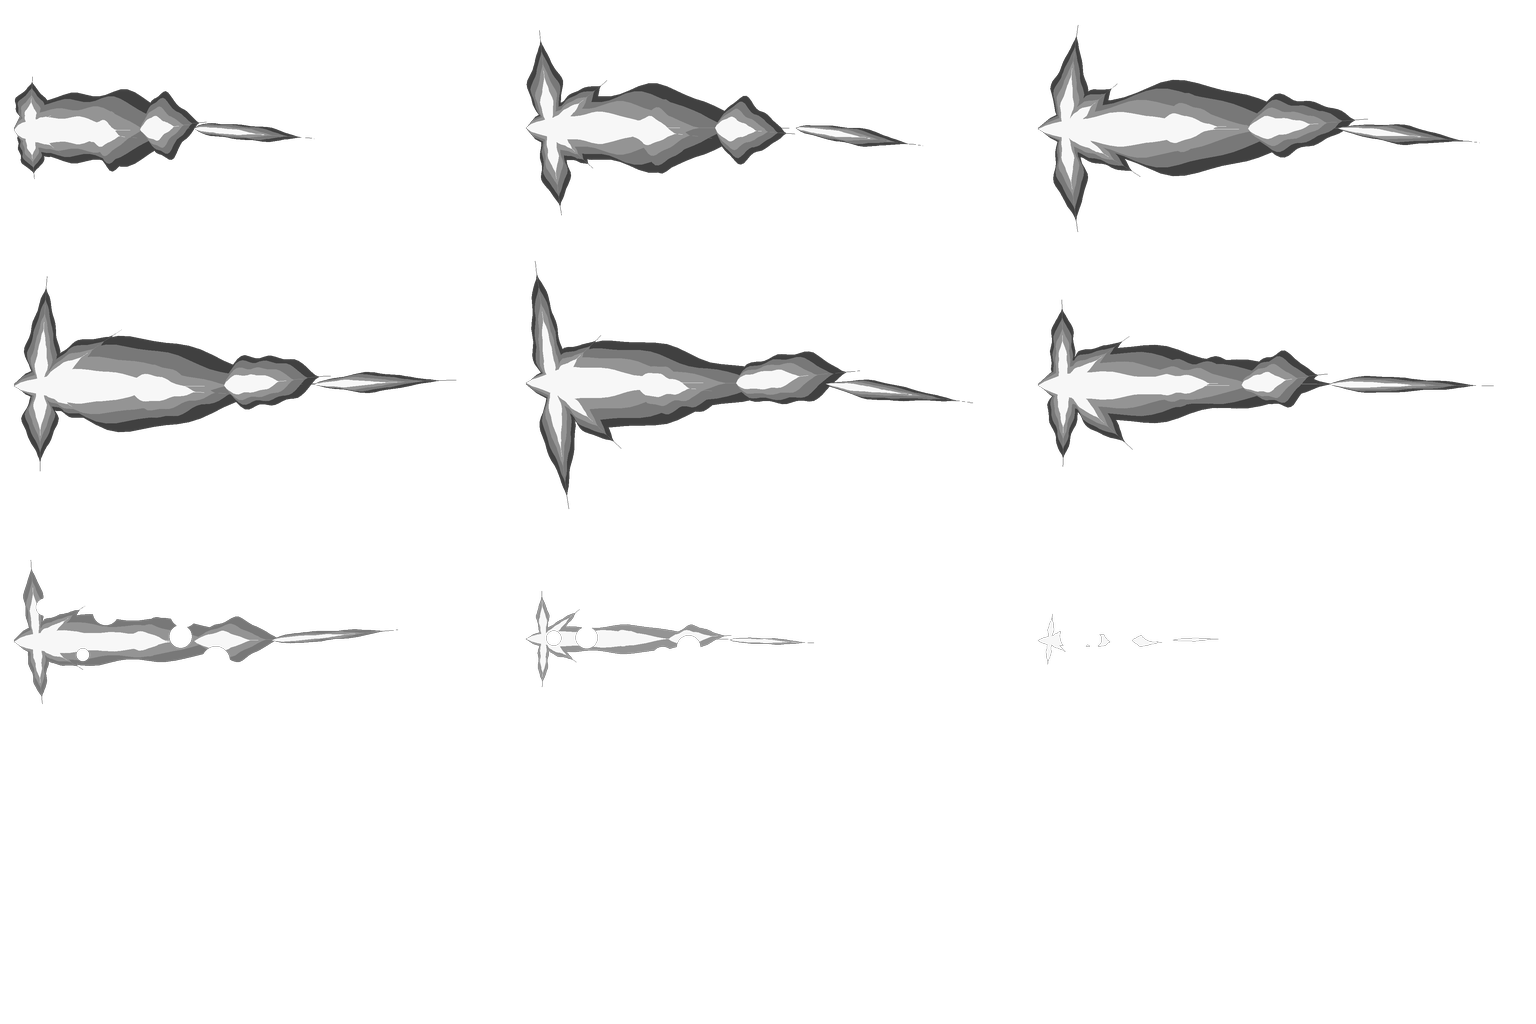
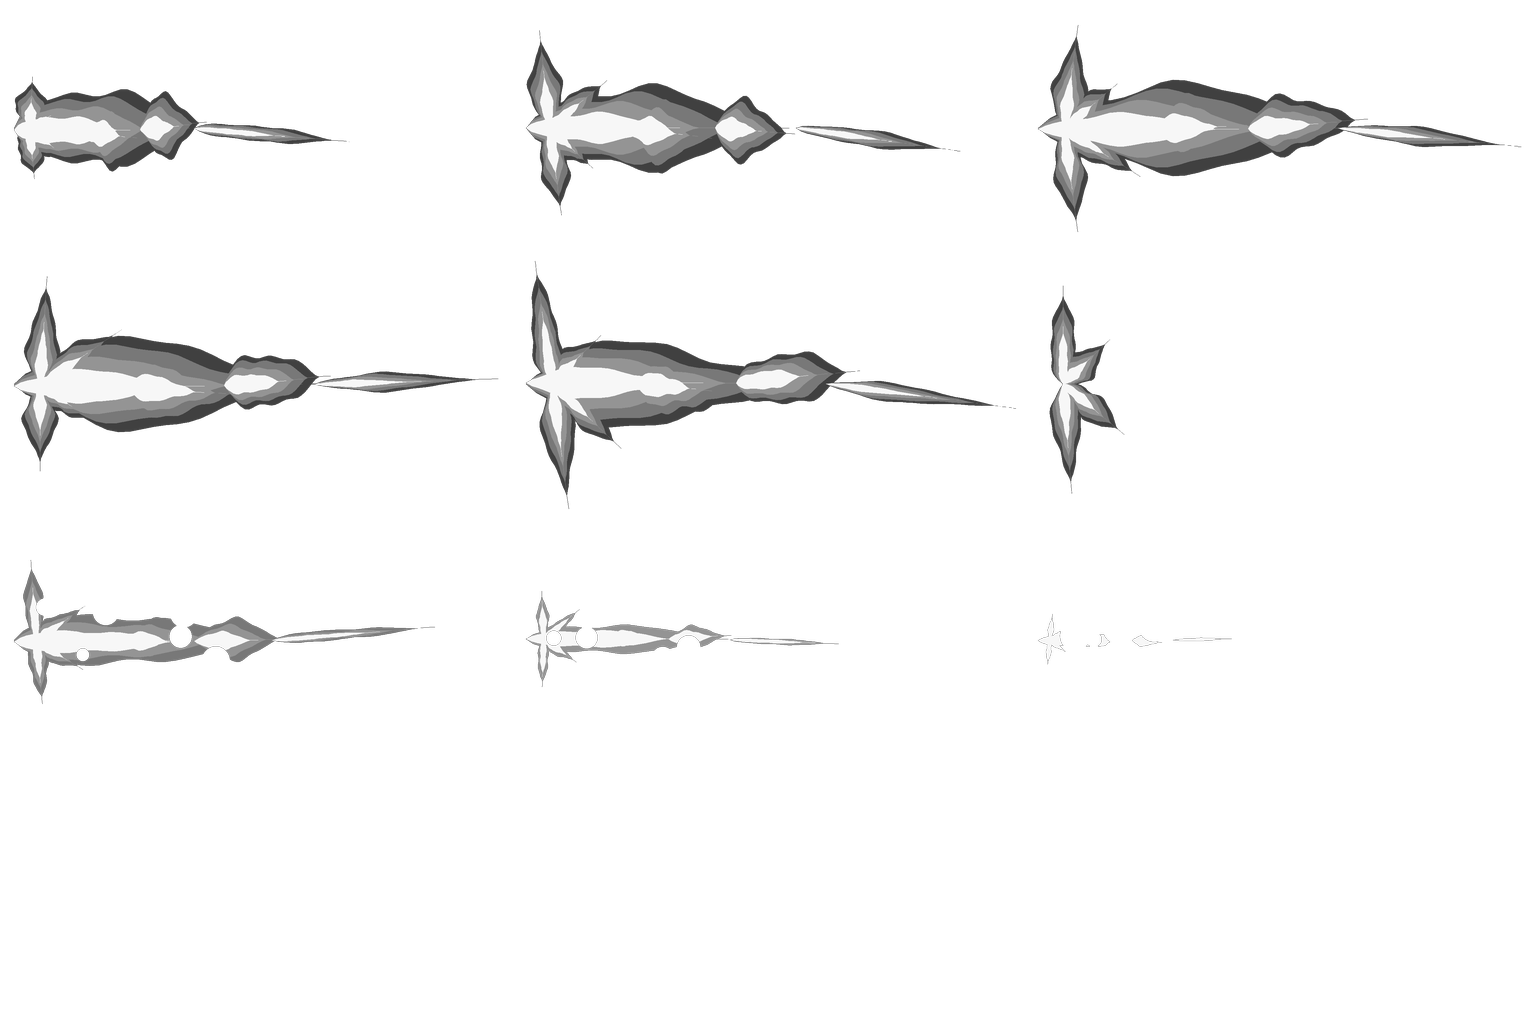
VFX: critique round 8 - the rifle's own day cone, the MG's stutter, softer day stars
A sixth book, MuzzleRifle (a plain cone with a soot ring), for the rifle by day up close, in place
of the tank gun's blast; the MG's tongue stutters (one frame of only the root star) behind a longer
spit; the carbine's flare lives long enough to be caught (0.12 s); by day an end-on star glows under
the class books, and a three-quarter view keeps more of the book. Critique r9: 68/100 - flat: the
bench's rows fire along the camera's axis, so the class books are mostly drawn end-on (next).

Gate: EditMode 779 run, 774 passed, 0 failed, 5 skipped.

diff --git a/trench-warfare-3d/Assets/_Project/Presentation/Camera/CombatFx.cs b/trench-warfare-3d/Assets/_Project/Presentation/Camera/CombatFx.cs
@@ -577,23 +577,23 @@ namespace TW.Presentation.Tactical
                         bool flared = arms.Flared && FxQuality.FlareKept(q, CameraShake.DistanceToLook(from), zoom, e.Tick + (uint)e.A);
                         if (flared && cam != null && EndOn(barrel, cam.transform.forward, classArms > 0f))   // end-on: a pop, not a sheet (critique la5)
                             books.Add(FlipbookFx.Book.Star, from + barrel * (flare * 0.2f) + FlareClear(barrel, cam.transform.forward, scale, flare, SceneHooks.CloseUp, true), flare * 0.5f,
-                                FlareLifeAt(arms.FlareLife, SceneHooks.CloseUp, true) * 0.6f, roll: roll, glow: FlareGlow(SceneMood.Night, SceneHooks.CloseUp, true) * SceneTints.Now.Glow, delay: delay);
+                                FlareLifeAt(arms.FlareLife, SceneHooks.CloseUp, true) * 0.6f, roll: roll, glow: FlareGlow(SceneMood.Night, SceneHooks.CloseUp, true) * SceneTints.Now.Glow * (SceneMood.Night ? 1f : 0.75f), delay: delay);   // by day under the books (r8)
                         else if (flared)
                         {
                             // the class's own drawing (CombatFx.Weapons.cs MuzzleBookOf), else the rifle's flare as it was
                             var own = classArms > 0f && e.A >= 0 && e.A < w.Archetype.Length ? MuzzleBookOf(KindOf(w.Archetype[e.A])) : null;
                             bool dayFlare = DayFlare(SceneMood.Night, SceneHooks.CloseUp, classArms > 0f);
-                            var book = own ?? (dayFlare ? FlipbookFx.Book.GunBlast : FlipbookFx.Book.Muzzle);
+                            var book = own ?? (dayFlare ? FlipbookFx.Book.MuzzleRifle : FlipbookFx.Book.Muzzle);   // the rifle by day up close: its own plain cone (critique r8)
                             float wide = flare * (own.HasValue ? MuzzleScale(own.Value, SceneHooks.CloseUp) : dayFlare ? Mathf.Lerp(1f, 1.4f, SceneHooks.CloseUp) : 1f);
                             Vector3 clear = cam != null ? FlareClear(barrel, cam.transform.forward, scale, flare, SceneHooks.CloseUp, classArms > 0f) : Vector3.zero;
                             float graze = cam != null && classArms > 0f ? GrazeGlow(barrel, cam.transform.forward) : 1f;
                             bool quarter = cam != null && ThreeQuarter(barrel, cam.transform.forward, classArms > 0f);
-                            if (quarter) wide *= 0.6f;   // foreshortened, with a small star on it below
+                            if (quarter) wide *= 0.75f;   // foreshortened, with a small star on it below
                             if (own == FlipbookFx.Book.MuzzleCarbine) flip = ((e.Tick + (uint)e.A) & 1u) == 0u;   // the carbine's three petals alternate shot to shot
                             float glowNow = FlareGlow(SceneMood.Night, SceneHooks.CloseUp, classArms > 0f) * SceneTints.Now.Glow * graze;
                             books.Add(book, from + along * (wide * 0.44f) + clear, wide, FlareLifeAt(arms.FlareLife, SceneHooks.CloseUp, classArms > 0f), flip ? FlipbookFx.Kind.Mirror : FlipbookFx.Kind.None,
                                 velocity: carried, roll: roll + (flip ? Mathf.PI : 0f), glow: glowNow, delay: delay);
-                            if (quarter) books.Add(FlipbookFx.Book.Star, from + barrel * (flare * 0.15f) + clear, flare * 0.35f, 0.1f, roll: roll, glow: glowNow, delay: delay);
+                            if (quarter) books.Add(FlipbookFx.Book.Star, from + barrel * (flare * 0.15f) + clear, flare * 0.25f, 0.1f, roll: roll, glow: glowNow, delay: delay);
                         }
                         // among the men, the weapon's own drawing (CombatFx.Close.cs): a sniper's brake, an MG's star, an SMG's flicker
                         if (e.A >= 0 && e.A < w.Archetype.Length)

diff --git a/trench-warfare-3d/Assets/_Project/Presentation/Camera/FlipbookFx.cs b/trench-warfare-3d/Assets/_Project/Presentation/Camera/FlipbookFx.cs
@@ -63,6 +63,7 @@ namespace TW.Presentation.Tactical
             MuzzlePop,    // the pistol and the machine pistol: a round spiky pop
             MuzzleBurst,  // the SMG: a fat cone opening into petals
             MuzzleCarbine,// the officer's carbine: the cone with three petals, shorter
+            MuzzleRifle,  // the rifle by day up close: a plain medium cone, its soot ring the edge on snow
             Count
         }
 
@@ -189,6 +190,7 @@ namespace TW.Presentation.Tactical
             new Sheet { Name = "MuzzlePop", Cols = 3, Rows = 4, Frames = 9, Snap = true, Fps = 12f, Fire = true, Tint = new Color(1.35f, 0.62f, 0.17f), Low = 0.11f, High = 0.95f, Bands = new Vector4(0.11f, 0.38f, 0.57f, 0.75f), Fill = 0.80f },
             new Sheet { Name = "MuzzleBurst", Cols = 3, Rows = 4, Frames = 9, Snap = true, Fps = 12f, Fire = true, Tint = new Color(1.35f, 0.62f, 0.17f), Low = 0.11f, High = 0.95f, Bands = new Vector4(0.11f, 0.38f, 0.57f, 0.75f), Fill = 0.80f },
             new Sheet { Name = "MuzzleCarbine", Cols = 3, Rows = 4, Frames = 9, Snap = true, Fps = 12f, Fire = true, Tint = new Color(1.35f, 0.62f, 0.17f), Low = 0.11f, High = 0.95f, Bands = new Vector4(0.11f, 0.38f, 0.57f, 0.75f), Fill = 0.80f },
+            new Sheet { Name = "MuzzleRifle", Cols = 3, Rows = 4, Frames = 9, Snap = true, Fps = 12f, Fire = true, Tint = new Color(1.35f, 0.62f, 0.17f), Low = 0.11f, High = 0.95f, Bands = new Vector4(0.11f, 0.38f, 0.57f, 0.75f), Fill = 0.80f },
         };
 
         /// <summary>IN-5 (VFX pass): how much wider a burst's far-reading parts are drawn at a zoom: 1 up to FarGrowFrom,

diff --git a/trench-warfare-3d/Assets/_Project/Presentation/Camera/CombatFx.Weapons.cs b/trench-warfare-3d/Assets/_Project/Presentation/Camera/CombatFx.Weapons.cs
@@ -60,7 +60,7 @@ namespace TW.Presentation.Tactical
                 case InfantryArchetype.Sniper:   // one big flash, a thin white-hot needle that lingers, a heavy kick of dirt
                     return Look(1.5f, 1.3f, 1.5f, 1.6f, true, 0.22f, 2.2f, 1f);
                 case InfantryArchetype.Officer:  // a carbine: a crisp pop, hardly a wisp
-                    return Look(0.8f, 0.9f, 0.9f, 0.3f, true, 0.085f, 0.8f, 0.7f);   // smaller and quicker than the SMG's cone (critique r7)
+                    return Look(0.8f, 0.9f, 0.9f, 0.3f, true, 0.12f, 0.8f, 0.7f);   // smaller and quicker than the SMG's cone (critique r7)
                 case InfantryArchetype.Shield:   // a pistol behind the plate: a short spit
                     return Look(0.6f, 0.7f, 0.7f, 0.5f, true, 0.18f, 0.6f, 0.3f);
                 case InfantryArchetype.Jetpack:  // a machine pistol: tiny flares that flicker three times (CombatFx.Close.cs)
